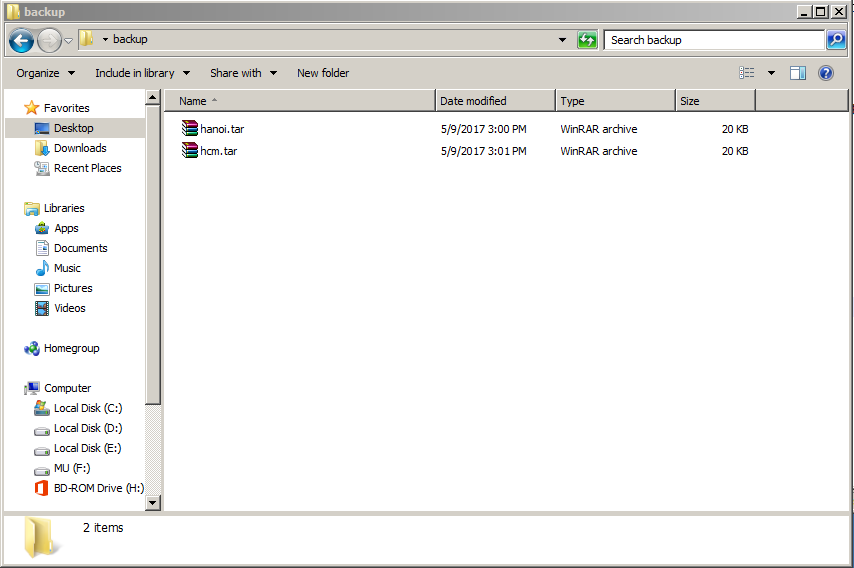
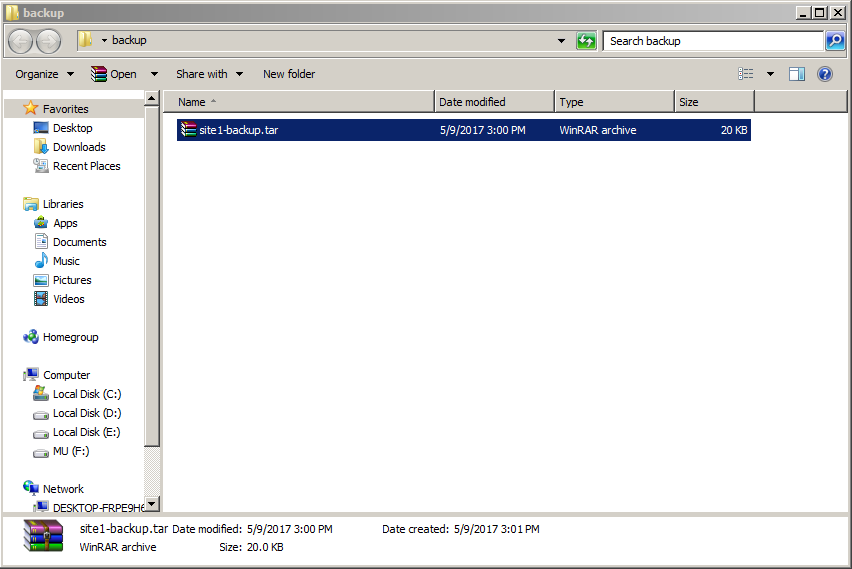
Edit distributed - p2

Changed region(s): [[0.0, 0.0, 1.0, 1.0], [0.4577, 0.8979, 0.6408, 0.9577]]

diff --git a/docs/Management-OMD.md b/docs/Management-OMD.md
@@ -159,7 +159,7 @@ Thông tin trên site `hanoi`
 
 <img src="../images/user-hn.png" />
 
-SChúng ta backup lại thông tin theo các bước sau.
+Chúng ta backup lại thông tin theo các bước sau:
 
 Đầu tiên trên Web UI `site1`, chúng ta tìm đến **WATO - Configuration**, **Backup & Restore**, **Create Snapshot**
 
@@ -171,6 +171,10 @@ Sau đó, tải bản backup (Snapshot) về máy tính của bạn. Chúng ta n
 
 <img src="../images/dm-bk-3.png" />
 
+Lưu lại trên máy tính của bạn, ở đây tôi đã đổi tên file là `site1-backup.tar`
+
+<img src="../images/dm-bk-4.png" />
+
 <a name="8" ></a>
 ### 8. Dừng hoạt động của site
 
@@ -181,7 +185,7 @@ omd stop site1
 <img src="../images/22-site-stop.png" />
 
 <a name="9" ></a>
-### 99. Xóa site
+### 9. Xóa site
 
 ```
 omd rm site1
@@ -192,7 +196,43 @@ Gõ `YES` để đồng ý xóa site.
 <img src="../images/22-site-remove.png" />
 
 <a name="10" ></a>
-### 10
+### 10. Restore dữ liệu của site
+
+Ở bước này, chúng ta cần tạo một site mới có tên là `site1_backup` theo [hướng dẫn bên trên.](#2) sau đó kích hoạt nó ở [bước 4](#4) và restore lại dữ liệu của `site1` mà ta đã xóa ở **bước 7**.
+
+Đầu tiên, chúng ta đăng nhập vào Web UI của site và kích hoạt tính năng restore dữ liệu kém bảo mật. **Tại sao phải bật tính năng này?** Câu trả lời là mỗi site sẽ được gán cho một hash và file backup (Snapshot) sẽ gắn liền với site. Khi chúng ta tạo site mới thì hash này cũng thay đổi, vì vậy chúng ta phải kích hoạt tính năng này để Restore lại dữ liệu của site cũ.
+
+Trên tab **WATO Configuration**, chúng ta chọn **Global Settings** chọn mục **Administration Tools (WATO)** và chỉnh **Allow upload of insecure WATO snapshots** từ `OFF` sang `ON` như hình.
+
+<img src="../images/23-rt-1.png" />
+
+Kích hoạt xong, chúng ta bấm vào **Backup & Restore** trên tab **WATO Configuration** và chọn file backup lúc trước ở bước 7. 
+
+<img src="../images/23-rt-2.png" />
+
+Sau khi chọn file xong, chúng ta bấm vào nút **Restore from file**.
+
+<img src="../images/23-rt-3.png" />
+
+Như đã giải thích ở trên, do đây là file backup của một site khác nên hash của chúng không trùng nhau vì thế OMD báo là *Untrust* - hình tròn màu đỏ. Bỏ qua điều này, chúng ta bấm vào **Restore snapshot**
+
+<img src="../images/23-rt-4.png" />
+
+<img src="../images/23-rt-5.png" />
+
+Sau đó chúng ta thấy thông báo Restore thành công và lưu lại những thay đổi.
+
+<img src="../images/23-rt-6.png" />
+
+<img src="../images/23-rt-7.png" />
+
+<img src="../images/23-rt-8.png" />
+
+Sau đó, chúng ta kiểm tra lại thông tin host và user.
+
+<img src="../images/23-rt-9.png" />
+
+<img src="../images/23-rt-10.png" />
 
 Tham khảo những bài viết khác:
 
